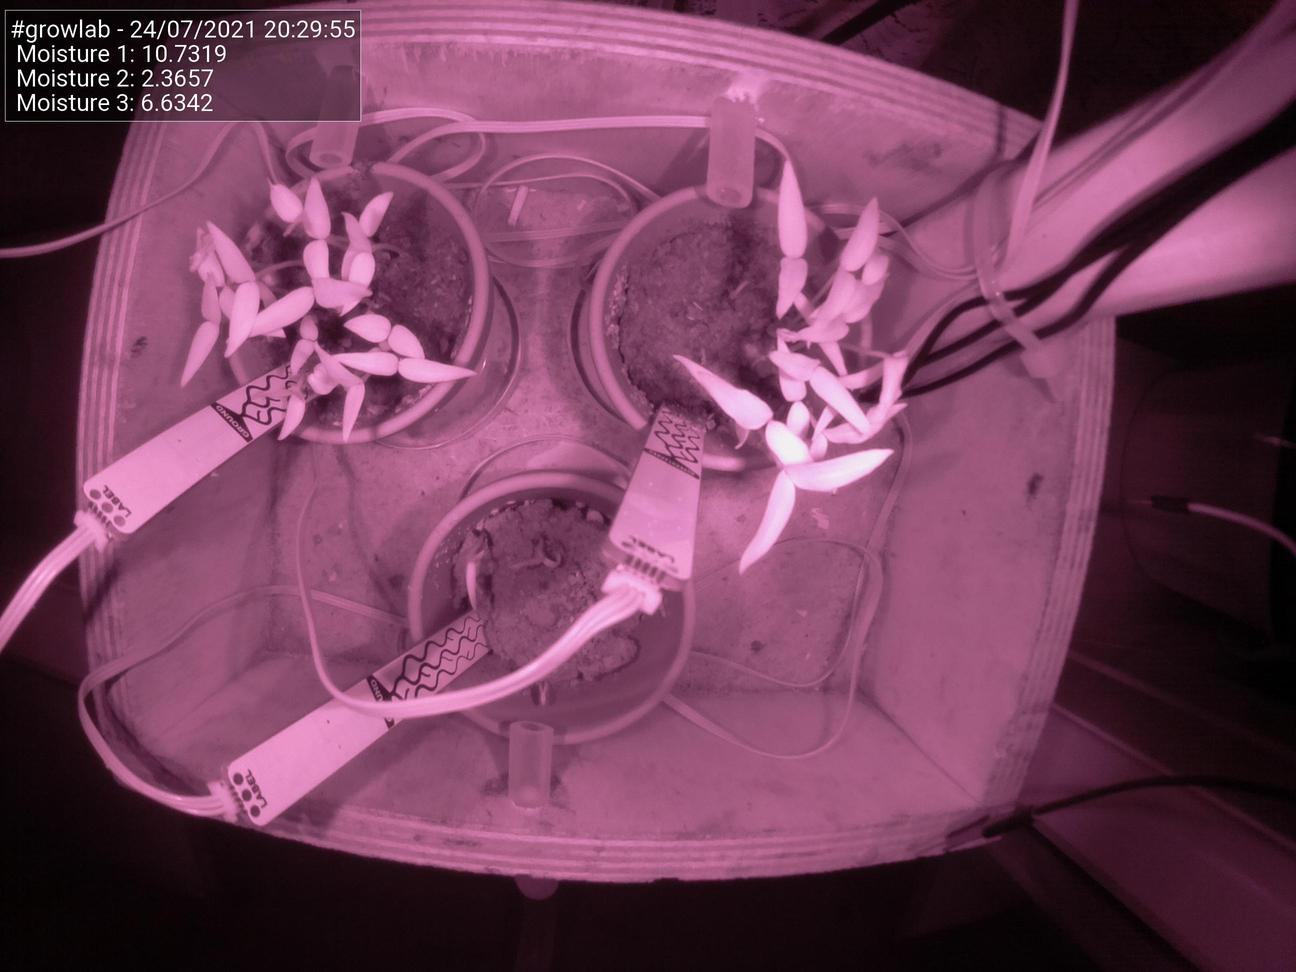
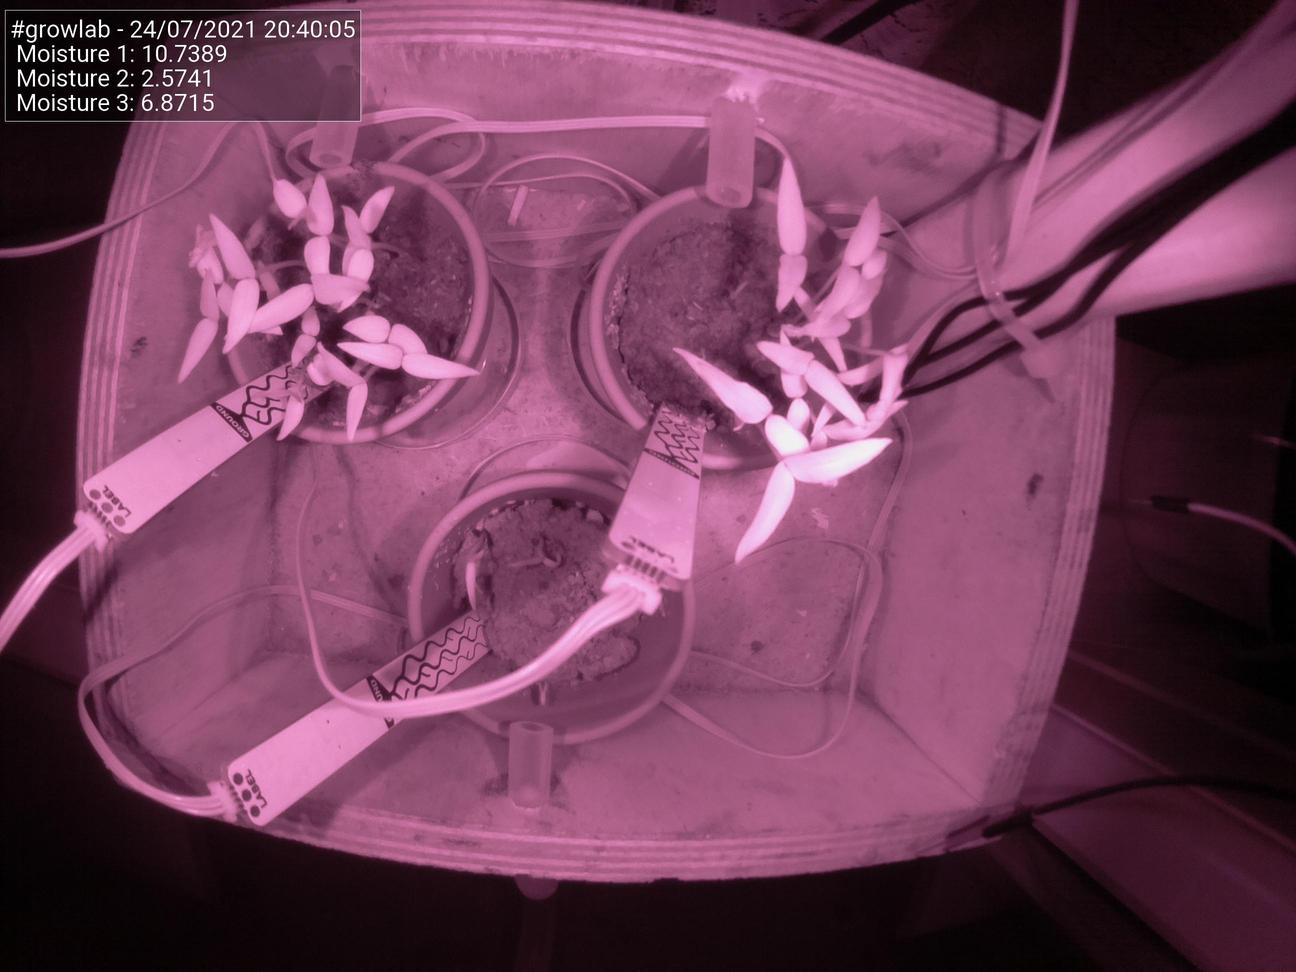
Update images at Sat 24 Jul 20:40:11 BST 2021

diff --git a/docs/index.html b/docs/index.html
@@ -51,25 +51,25 @@
                                 <td>Date</td>
                                 <td>24/07/2021</td>
                                 <td>Time</td>
-                                <td>20:29:55</td>
+                                <td>20:40:05</td>
                             </tr>
                             <tr>
                                 <td>Temperature</td>
                                 <td>N/A</td>
                                 <td>Moisture 1</td>
-                                <td>10.7319</td>
+                                <td>10.7389</td>
                             </tr>
                             <tr>
                                 <td>Humidity</td>
                                 <td>N/A</td>
                                 <td>Moisture 2</td>
-                                <td>2.3657</td>
+                                <td>2.5741</td>
                             </tr>
                             <tr>
                                 <td>Pressure</td>
                                 <td>N/A</td>
                                 <td>Moisture 3</td>
-                                <td>6.6342</td>
+                                <td>6.8715</td>
                             </tr>
                         </tbody>
                     </table>
@@ -77,7 +77,7 @@
 
                 <h5>Latest image</h5>
                 <div style="width: 85%;">
-                            <img class="figure-img img-fluid rounded" src="./preview.jpg?uid=1627155000.6584263">
+                            <img class="figure-img img-fluid rounded" src="./preview.jpg?uid=1627155611.046262">
                 </div>
             </div>
         </div>
